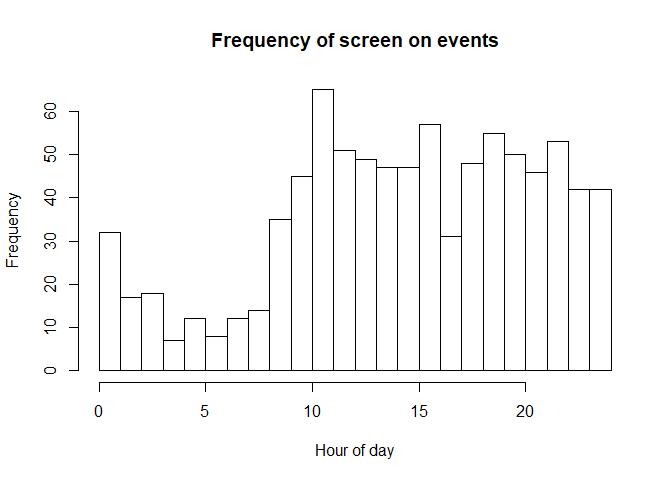
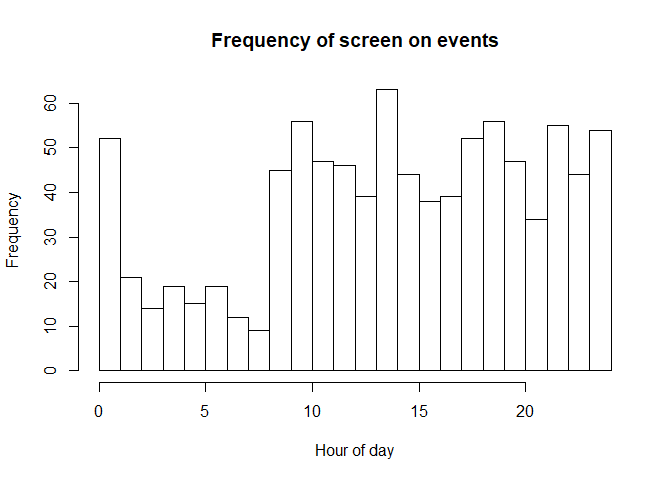
Finished version 1.0

diff --git a/README.md b/README.md
@@ -13,8 +13,6 @@ The following code generates some example screen on/off data for *ndays=10* days
 
 The generated data is stored in the outmat matrix. This matrix has three columns, column 1 is the starting time (in hours) of the screen off interval, column 2 is the ending time (in hours) of the screen off interval, with column 3 corresponding to the day of follow-up. Note that starting times (Column 1) are on the interval *\[anchor\_t,anchor\_t+24\]* rather than *\[0,24\]*. To see the screen off intervals (*outmat\_mod*) in time-date format where *d0* is the variable representing the first day of followup, see the *outmat\_orig* matrix. The *Mod2Orig()* and *Orig2Mod()* functions convert back and forth between these two data formats (the formats represented by *outmat\_mod* and *outmat\_orig*).
 
-<details><summary>R Code</summary>
-<p>
 ``` r
 ndays=10
 lambda_s = 1.5
@@ -114,39 +112,36 @@ head(outmat_orig)
 ```
 
     ##                    t0                  t1
-    ## 1 03/03/2019 15:00:00 03/03/2019 15:25:21
-    ## 2 03/03/2019 15:25:21 03/03/2019 15:35:31
-    ## 3 03/03/2019 15:35:31 03/03/2019 15:51:00
-    ## 4 03/03/2019 15:51:00 03/03/2019 15:58:22
-    ## 5 03/03/2019 15:58:22 03/03/2019 16:08:37
-    ## 6 03/03/2019 16:08:37 03/03/2019 16:18:05
+    ## 1 03/03/2019 15:00:00 03/03/2019 15:02:10
+    ## 2 03/03/2019 15:02:10 03/03/2019 15:16:43
+    ## 3 03/03/2019 15:16:43 03/03/2019 15:28:40
+    ## 4 03/03/2019 15:28:40 03/03/2019 15:32:49
+    ## 5 03/03/2019 15:32:49 03/03/2019 15:44:52
+    ## 6 03/03/2019 15:44:52 03/03/2019 16:15:06
 
 ``` r
 head(outmat_mod)
 ```
 
     ##          [,1]     [,2] [,3]
-    ## [1,] 15.00000 15.42259    1
-    ## [2,] 15.42259 15.59202    1
-    ## [3,] 15.59202 15.85015    1
-    ## [4,] 15.85015 15.97283    1
-    ## [5,] 15.97283 16.14377    1
-    ## [6,] 16.14377 16.30146    1
+    ## [1,] 15.00000 15.03625    1
+    ## [2,] 15.03625 15.27870    1
+    ## [3,] 15.27870 15.47803    1
+    ## [4,] 15.47803 15.54704    1
+    ## [5,] 15.54704 15.74790    1
+    ## [6,] 15.74790 16.25183    1
 
 ``` r
 head(compare_to_outmat_mod)
 ```
 
     ##          [,1]     [,2] [,3]
-    ## [1,] 15.00000 15.42250    1
-    ## [2,] 15.42250 15.59194    1
-    ## [3,] 15.59194 15.85000    1
-    ## [4,] 15.85000 15.97278    1
-    ## [5,] 15.97278 16.14361    1
-    ## [6,] 16.14361 16.30139    1
-
-</p>
-</details>
+    ## [1,] 15.00000 15.03611    1
+    ## [2,] 15.03611 15.27861    1
+    ## [3,] 15.27861 15.47778    1
+    ## [4,] 15.47778 15.54694    1
+    ## [5,] 15.54694 15.74778    1
+    ## [6,] 15.74778 16.25167    1
 
 To see what the resulting data looks like:
 
@@ -160,8 +155,6 @@ hist(outmat_mod[,1] %% 24,breaks=24,xlim=c(0,24),xlab="Hour of day",main="Freque
 
 The time to bed *x\_s* and time to wake *x\_w* is unknown for each night of follow-up. In this approach, we treat *(x\_s,x\_w)* as a bivariate normal random variable with mean *(mu\_s,mu\_w)* with *cor(x\_s,x\_w)=rho* and marginal variances *(sigma\_s<sup>2,sigma\_w</sup>2)*. To calculate the marginal likelihood we integrate over the conditional likelihood with respect to *(x\_s,x\_w)* for each night in follow up. Because this is a Gaussian integral it can be done efficiently using Guassian quadrature, more specifically Gauss-Hermite quadrature. The code for this is here:
 
-<details><summary>R Code</summary>
-<p>
 ``` r
 ## perform quadrature of multivariate normal
 
@@ -244,13 +237,10 @@ mgauss.hermite <- function(n, mu, sigma, prune=NULL) {
 }
 ```
 
-</p>
-</details>
-
 ### Estimating model parameters
 
-<details><summary>R Code</summary>
-<p>
+Next, we write the likelihood function and use Hermite-Gauss quadrature to perform numerical integration over the unknown bedtimes and wake-up times (*x\_s* and *x\_w*). We do a grid search over some of the parameter space (*rho*, *sigma\_s*, and *sigma\_w*) to pick an initial value for the numerical optimization of the likelihood, but we make smarter data-based guesses as initial values for the remaing parameters (*mu\_s*, *mu\_w*, *lambda\_s*, and *lambda\_w*).
+
 ``` r
 IndLik = function(t_init,wt,xs,xw,lambda_s,lambda_w){
   if(t_init< xs){
@@ -402,14 +392,9 @@ mle.out=FindParamMLEs(outmat_mod,anchor_t)
 
     ## Identifying good initial model parameters...
     ## Numerical optimization (using optim) until convergence (maxiter= 20 ):
-    ## Iter  1 : mu_s = 24.41398 ; mu_w = 32.05845 ; sd_s = 0.9851239 ; sd_w = 0.9906677 ; rho = 0.8383384 ; lambda_s = 1.532089 ; lambda_w = 4.817348 
-    ## Iter  2 : mu_s = 24.42011 ; mu_w = 32.03772 ; sd_s = 0.9861941 ; sd_w = 0.9995605 ; rho = 0.8474101 ; lambda_s = 1.474832 ; lambda_w = 4.819268 
-    ## Iter  3 : mu_s = 24.41578 ; mu_w = 32.05644 ; sd_s = 0.9854078 ; sd_w = 1.005007 ; rho = 0.849497 ; lambda_s = 1.471055 ; lambda_w = 4.820763 
-    ## Iter  4 : mu_s = 24.41607 ; mu_w = 32.05316 ; sd_s = 0.9853513 ; sd_w = 1.013361 ; rho = 0.852144 ; lambda_s = 1.465403 ; lambda_w = 4.817352 
-    ## Iter  5 : mu_s = 24.41607 ; mu_w = 32.05056 ; sd_s = 0.985107 ; sd_w = 1.015117 ; rho = 0.8528796 ; lambda_s = 1.464907 ; lambda_w = 4.817461
-
-</p>
-</details>
+    ## Iter  1 : mu_s = 25.19385 ; mu_w = 32.14444 ; sd_s = 1.092032 ; sd_w = 0.9572812 ; rho = 0.7782903 ; lambda_s = 1.751777 ; lambda_w = 4.77403 
+    ## Iter  2 : mu_s = 25.19036 ; mu_w = 32.11145 ; sd_s = 1.092591 ; sd_w = 0.9572735 ; rho = 0.7775206 ; lambda_s = 1.731941 ; lambda_w = 4.756752 
+    ## Iter  3 : mu_s = 25.19036 ; mu_w = 32.11145 ; sd_s = 1.092593 ; sd_w = 0.9573155 ; rho = 0.777545 ; lambda_s = 1.731947 ; lambda_w = 4.756758
 
 The maximum likelihood estimates and the interpretations of the model parameters are:
 
@@ -435,11 +420,11 @@ cat(paste(" Avg. time to sleep = ",sleep_t," (+/- ",round(mle.out[3],1)," hour)\
 ,(paste("Rate (per hour) of frequency of phone use while awake = ", round(mle.out[7],5),"\n",sep="")))
 ```
 
-    ##  Avg. time to sleep = 0:24 (+/- 1 hour)
-    ##  Avg. time to wake  = 8:03 (+/- 1 hour)
-    ##  Correlation between time to sleep and time to wake = 0.85
-    ##  Rate (per hour) of frequency of phone use while asleep = 1.46491
-    ##  Rate (per hour) of frequency of phone use while awake = 4.81746
+    ##  Avg. time to sleep = 1:11 (+/- 1.1 hour)
+    ##  Avg. time to wake  = 8:06 (+/- 1 hour)
+    ##  Correlation between time to sleep and time to wake = 0.78
+    ##  Rate (per hour) of frequency of phone use while asleep = 1.73195
+    ##  Rate (per hour) of frequency of phone use while awake = 4.75676
 
 ### Estimating bed times and wake up times for each day
 
@@ -447,8 +432,6 @@ Now that the model parameters have been estimated, we can maximize the joint den
 
 The R function to find these estimates are here:
 
-<details><summary>R Code</summary>
-<p>
 ``` r
 GetIndSleepEstimates =function(mat_mod,mle.out){
   labels=unique(mat_mod[,3])
@@ -469,10 +452,7 @@ GetIndSleepEstimates =function(mat_mod,mle.out){
 }
 ```
 
-</p>
-</details>
-
-Let's run this function on our simulated data (*mat\_mod*) using the parameter MLEs (*mle.out*) we just estimated as input.
+Let's run this function on our simulated data (*outmat\_mod*) using the parameter MLEs (*mle.out*) we just estimated as input.
 
 ``` r
 xest=GetIndSleepEstimates(outmat_mod,mle.out)
@@ -487,13 +467,13 @@ xest_orig
 ```
 
     ##                bedtime        wake-up time
-    ## 1  03/04/2019 00:35:28 03/04/2019 08:09:05
-    ## 2  03/05/2019 01:24:20 03/05/2019 08:47:23
-    ## 3  03/06/2019 00:04:17 03/06/2019 07:24:09
-    ## 4  03/07/2019 00:14:04 03/07/2019 07:45:52
-    ## 5  03/08/2019 00:57:21 03/08/2019 08:17:46
-    ## 6  03/09/2019 01:12:58 03/09/2019 09:12:18
-    ## 7  03/10/2019 00:53:30 03/10/2019 08:36:16
-    ## 8  03/11/2019 00:29:16 03/11/2019 08:08:24
-    ## 9  03/11/2019 23:56:33 03/12/2019 07:28:11
-    ## 10 03/13/2019 00:51:54 03/13/2019 08:23:23
+    ## 1  03/04/2019 01:49:58 03/04/2019 08:27:47
+    ## 2  03/05/2019 00:50:51 03/05/2019 07:48:57
+    ## 3  03/06/2019 01:54:51 03/06/2019 08:19:00
+    ## 4  03/07/2019 00:55:23 03/07/2019 08:21:11
+    ## 5  03/08/2019 02:13:17 03/08/2019 08:40:13
+    ## 6  03/09/2019 01:07:53 03/09/2019 08:01:17
+    ## 7  03/10/2019 00:48:15 03/10/2019 07:18:14
+    ## 8  03/11/2019 02:04:52 03/11/2019 08:53:14
+    ## 9  03/12/2019 01:14:14 03/12/2019 08:02:56
+    ## 10 03/13/2019 00:50:47 03/13/2019 07:35:17
